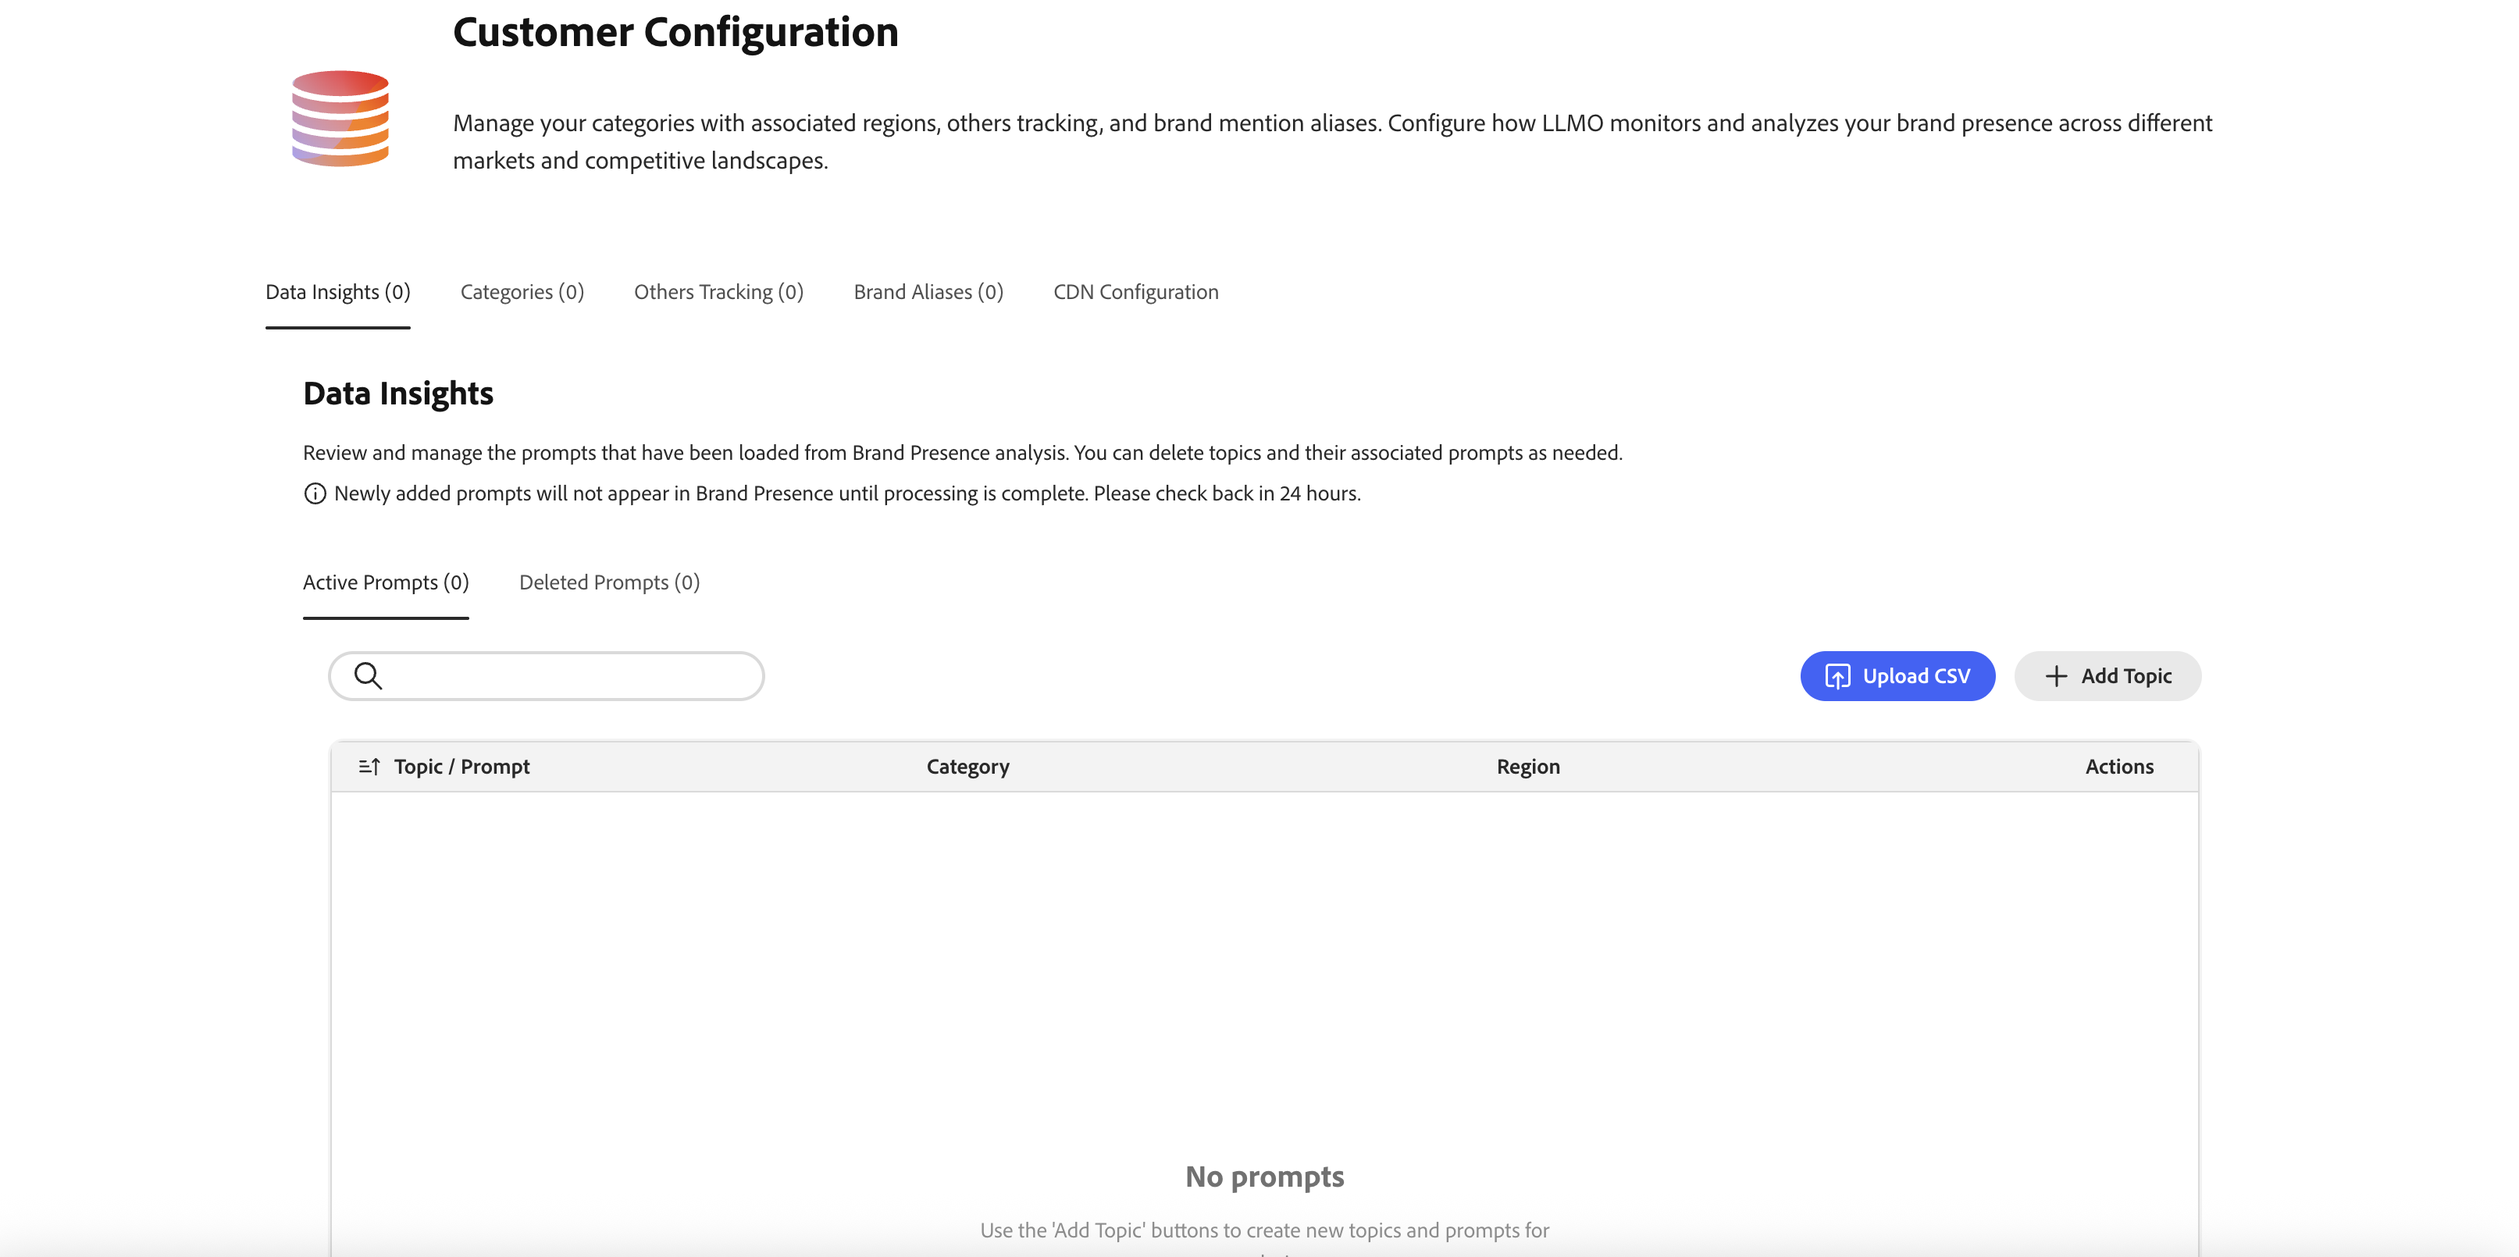
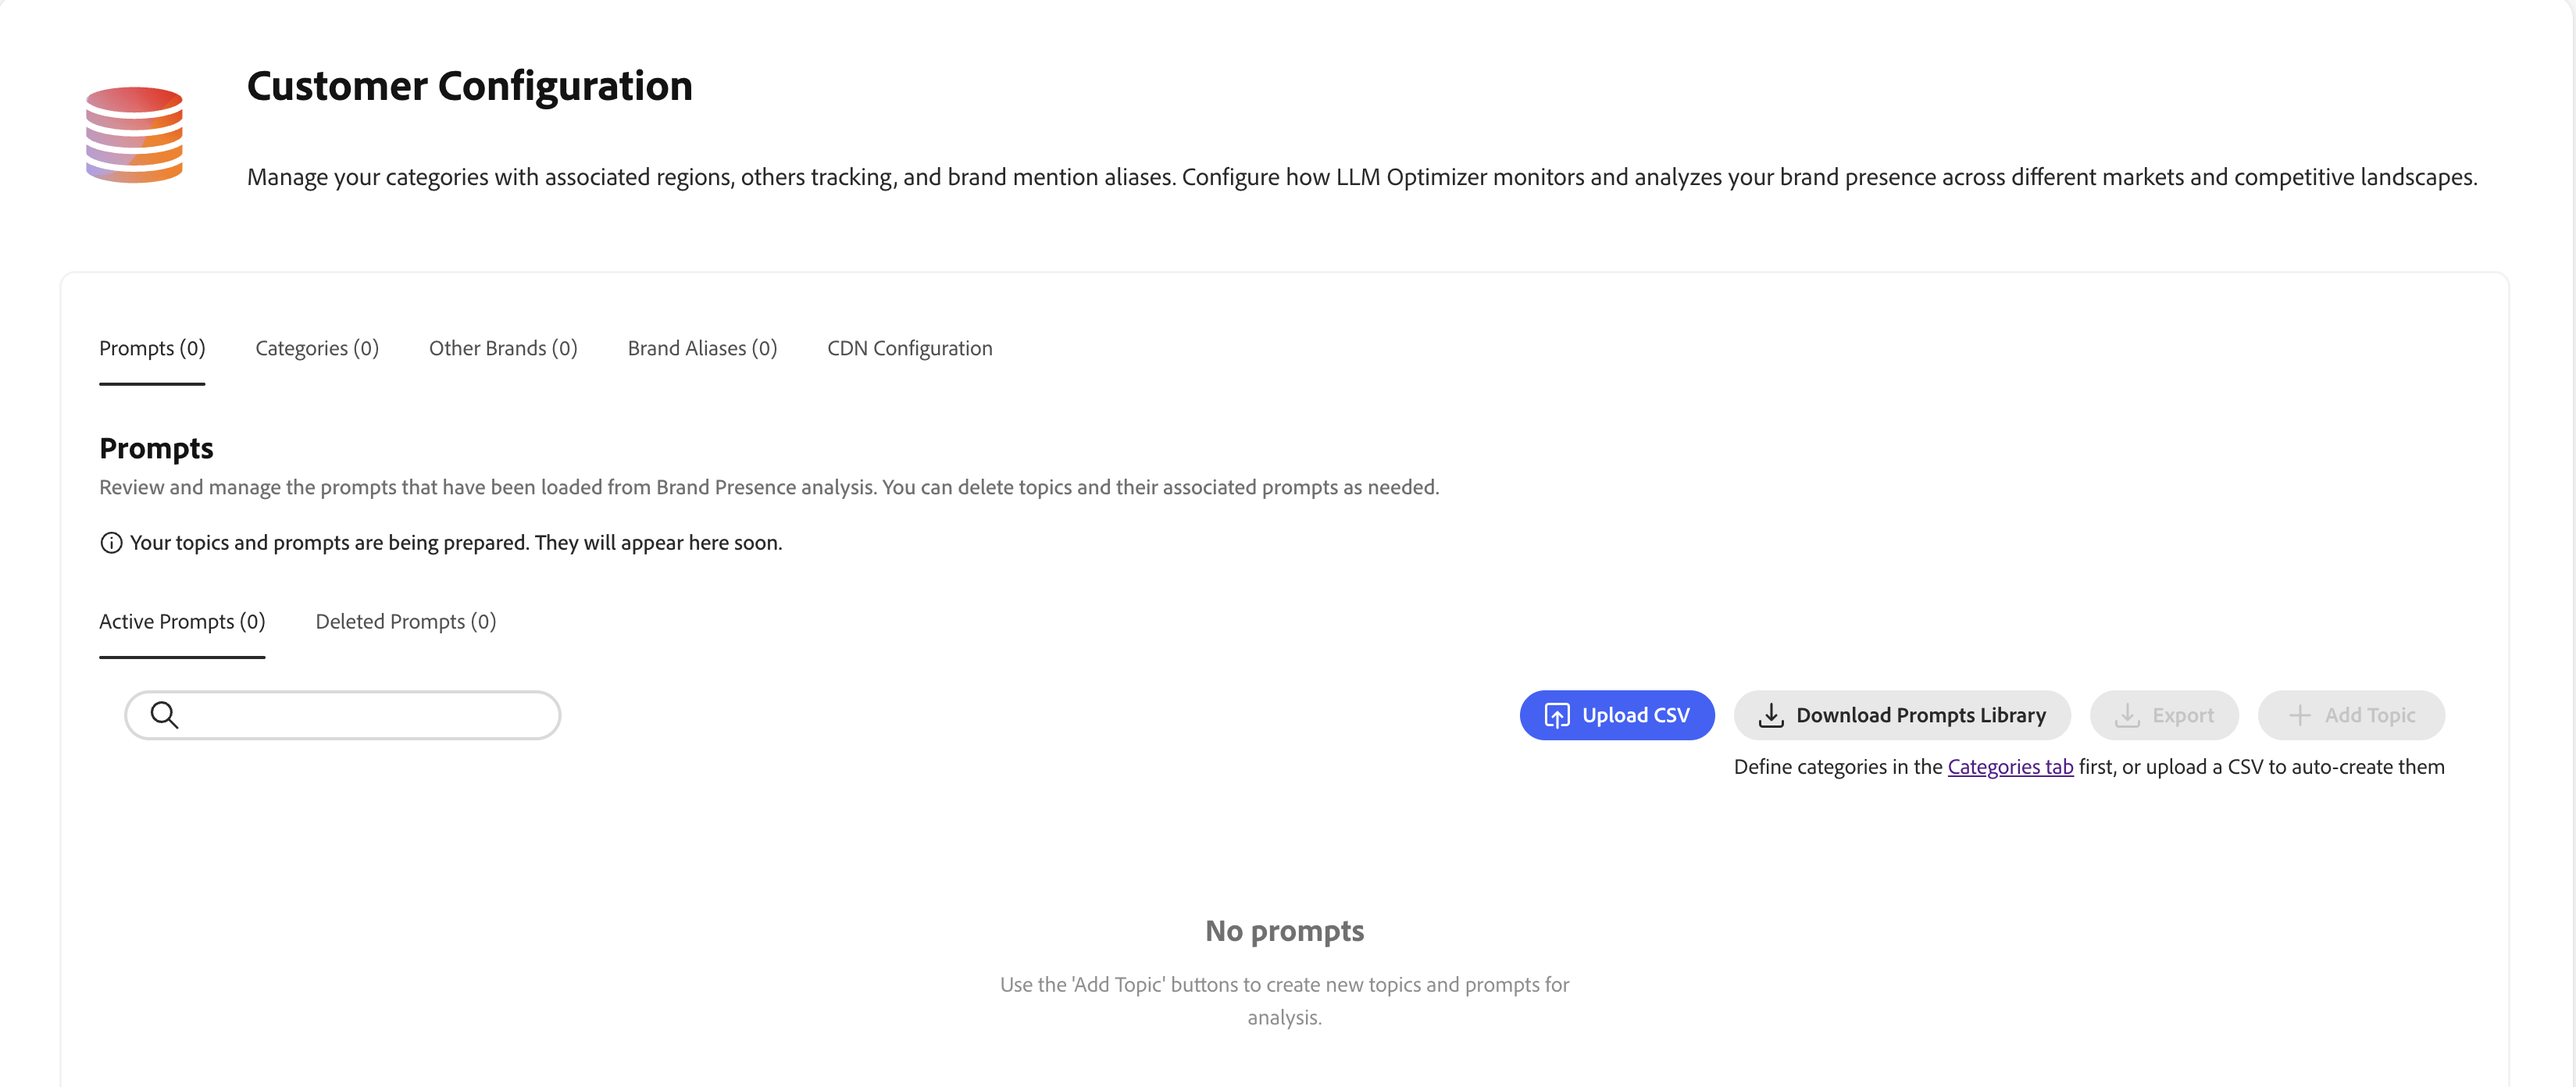
config updates

diff --git a/help/dashboards/customer-configuration.md b/help/dashboards/customer-configuration.md
@@ -12,15 +12,43 @@ The Customer Configuration Dashboard is a powerful tool that provides insights i
 
 In order to configure how LLM Optimizer monitors and analyzes your brand presence across different markets and competitive landscapes, you have access to the following tabs:
 
+* [Prompts](#prompts-brand)
 * [Categories](#categories)
-* [Others Tracking](#others-tracking)
+* [Other Brands](#other-brands)
 * [Brand Aliases](#brand-aliases)
-* [Data Insights](#data-insights)
 * [CDN Configuration](#agentic-cdn)
 
 >[!IMPORTANT]
 >
 > For more details on how to set up your categories, topics, prompts see the [Best practices for configuring categories, topics, prompts](/help/overview/best-practices-topics-prompts.md) page.
+
+## Prompts {#prompts-brand}
+
+From this tab, you can review, manage and customize prompts. You can upload a [Brand Presence analysis](/help/dashboards/brand-presence.md) .csv and the list will be populated with prompts and topics from that analysis or [Download a Prompts library](/help/overview/best-practices-topics-prompts.md) created by Adobe. You can also delete, modify and add topics and their associated prompts as needed.
+
+To import a data insights .csv file, you first need to export a file from the Brand Presence dashboard. See the [data insights](/help/dashboards/brand-presence.md#data-insights) section to learn how to do that. Once you have the file:
+
+1. On the dashboard, click **Upload CSV**.
+2. On the Import Data Insights window, drag and drop or manually choose the file.
+3. Click **Upload Data**.
+
+You can also create a new CSV file by downloading the template from the **Import Data Insights** window. Once you have the template, open it and input your topics together with their associated prompts, categories, and regions each in a new line.
+
+To learn how to download and use the Industry Prompt Library created by Adobe see the Industry Prompt Library section on [this page](/help/overview/best-practices-topics-prompts.md)
+
+Additionally, you can also add topics/prompts to the list independently of a CSV file or prompt library. To achieve this, on the dashboard, you need to:
+
+1. Click the **Add Topic** button.
+2. In the new configuration window, select the **Category**. Previously created categories will appear here.
+3. Enter the topic name.
+4. Add the prompt text.
+5. Select the region.
+6. Click **Add Prompt** and the topic with the prompt will appear on the list.
+
+>[!NOTE]
+>Newly added prompts will not appear in Brand Presence until processing is complete.
+
+On the list, you can click each topic and the associated prompt(s) will appear, To delete the topic and its associated prompts, click the delete icon from the list.
 
 ## Categories {#categories}
 
@@ -35,7 +63,7 @@ Adding new categories will not automatically generate topics and prompts - these
 
 To delete a category, click the delete icon from the category list. Be careful, because **deleting a category will also delete the associated items** like brand aliases that are linked to that specific category.
 
-## Others Tracking {#others-tracking}
+## Other Brands {#others-tracking}
 
 By using this tab, you can track how your others are mentioned in relation to your brand across different categories and regions. Monitor their presence and performance in your market segments. To customize tracking:
 
@@ -58,32 +86,6 @@ By using brand aliases, you can configure alternative names and variations of yo
 5. Click **Save** and the brand alias will appear on the list.
 
 To delete a brand alias, click the delete icon from the alias list.
-
-## Data Insights {#data-insights}
-
-From this tab, you can review, manage and customize prompts. You can upload a [Brand Presence data insights](/help/dashboards/brand-presence.md#data-insights) .csv and the list be populated with prompts and topics from that analysis. You can also delete, modify and add topics and their associated prompts as needed.
-
-To import a data insights .csv file, you first need to export a file from the Brand Presence dashboard. See the [data insights](/help/dashboards/brand-presence.md#data-insights) section to learn how to do that. Once you have the file:
-
-1. On the dashboard, click **Upload CSV**.
-2. On the Import Data Insights window, drag and drop or manually choose the file.
-3. Click **Upload Data**.
-
-You can also create a new CSV file by downloading the template from the **Import Data Insights** window. Once you have the template, open it and input your topics together with their associated prompts, categories, and regions each in a new line.
-
-Additionally, you can also add topics/prompts to the list independently of a CSV file. To achieve this, on the dashboard, you need to:
-
-1. Click the **Add Topic** button.
-2. In the new configuration window, select the **Category**. Previously created categories will appear here.
-3. Enter the topic name.
-4. Add the prompt text.
-5. Select the region.
-6. Click **Add Prompt** and the topic with the prompt will appear on the list.
-
->[!NOTE]
->Newly added prompts will not appear in Brand Presence until processing is complete.
-
-On the list, you can click each topic and the associated prompt(s) will appear, To delete the topic and its associated prompts, click the delete icon from the list.
 
 ## CDN Configuration {#cdn-configuration}
 
